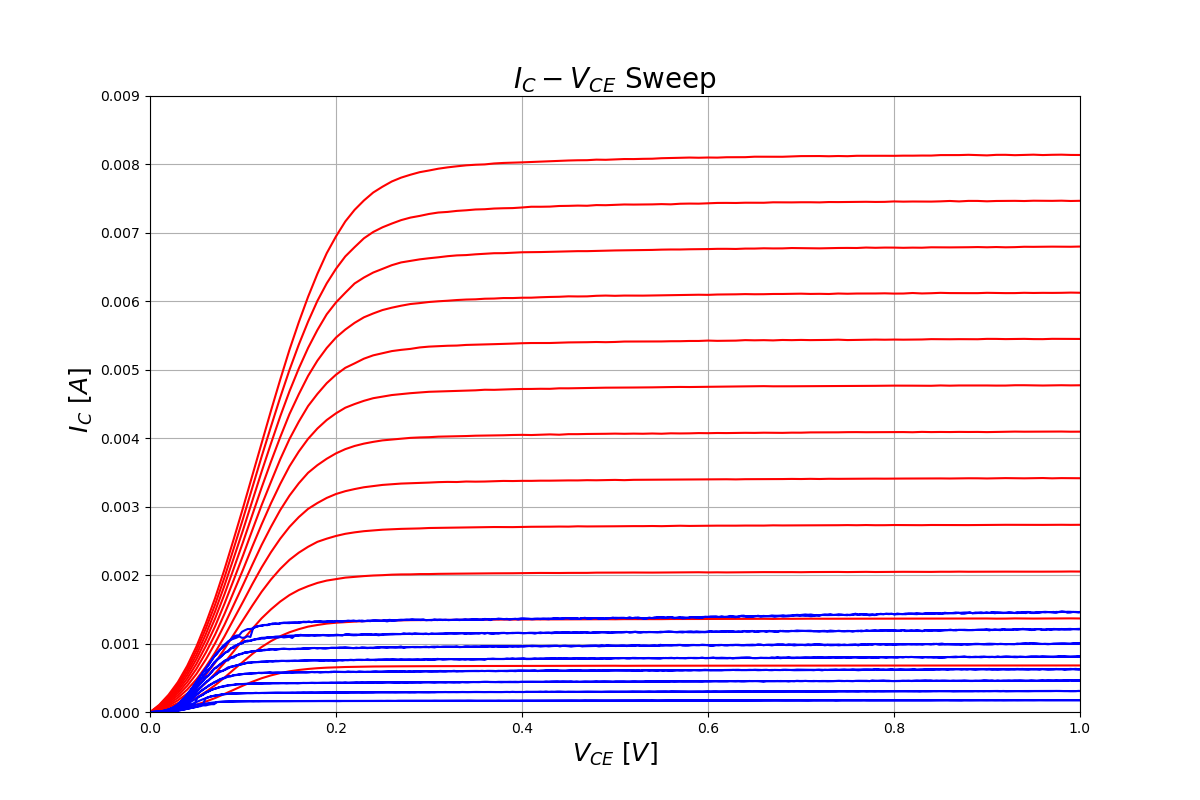
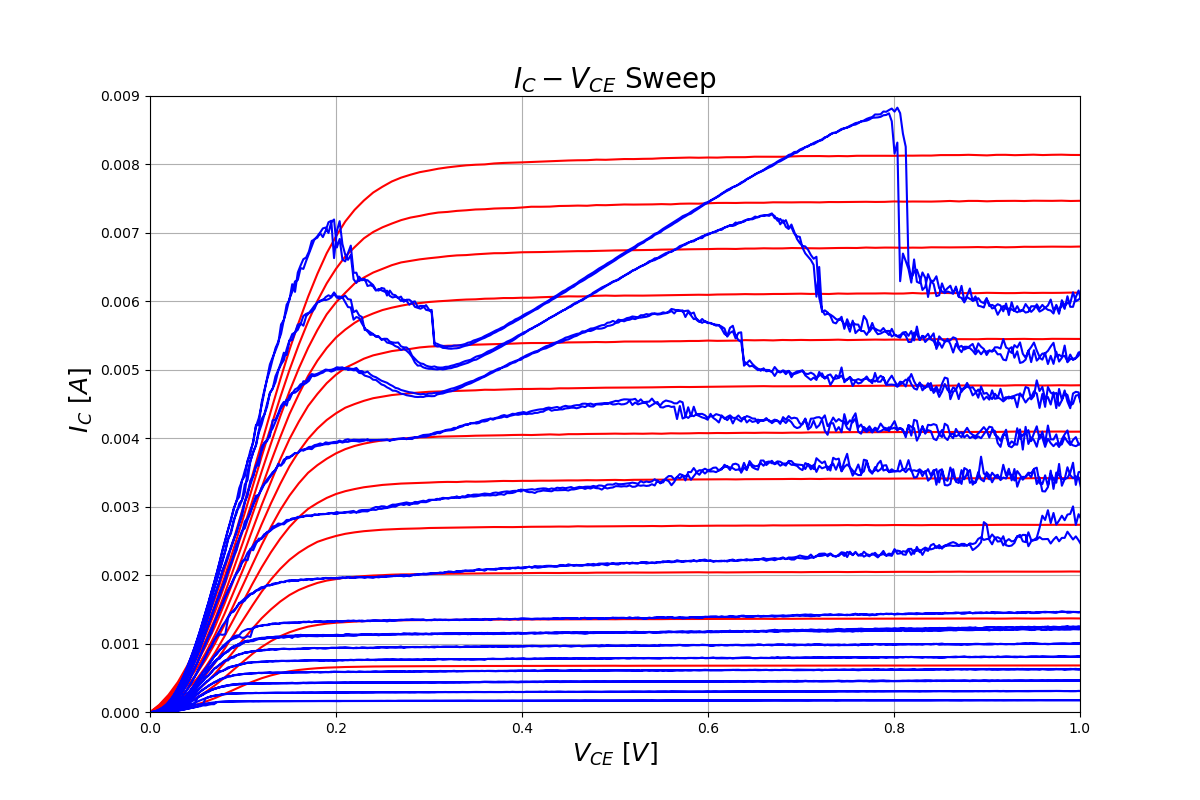
merge dat

diff --git a/readme.md b/readme.md
@@ -45,9 +45,5 @@ In this plot, the base current bias ranges from $500nA$ to $2250nA$. It clearly
 show that at low base current density, the current $I_C$ wrt $V_{CE}$ behave
 stably and there is no clear offset of $V_{CE}$.
 
-### 2.1. $I_C$ vs $V_{CE}$ sweep with low high current in CR
-![IcVce at low base current injection](plot/IcVce_sweep_high_Ib.png)
-
-In this plot, the base current bias ranges from $1 \mu A$ to $8 \mu A$, It clearly show that at high base current density, the current $I_C$ wrt $V_{CE}$ behave very unstable and there show that it is hard to find the stable operation point for $V_{CE}$
 
  
